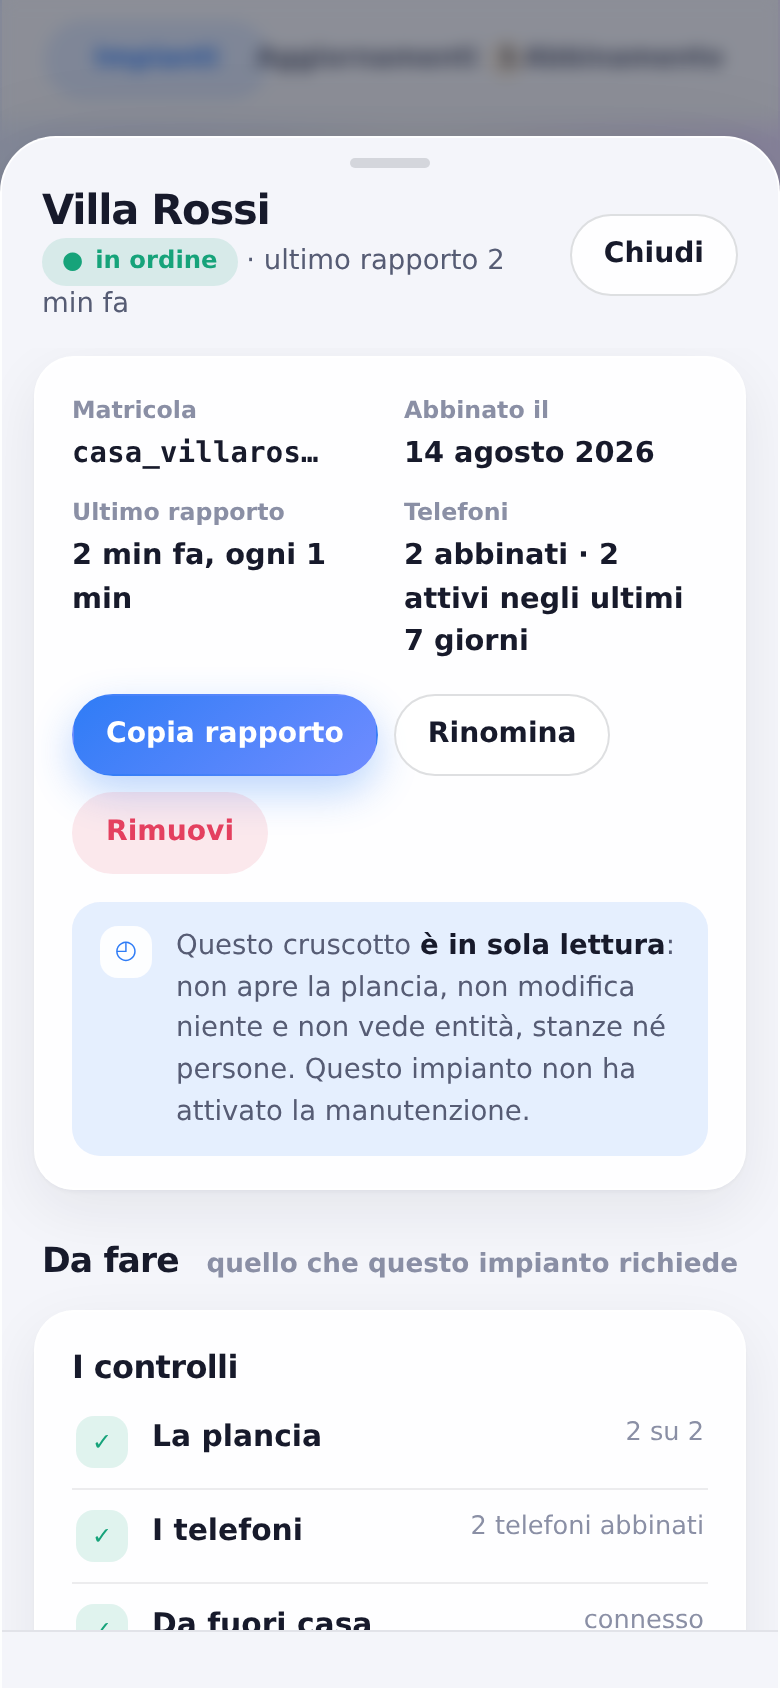
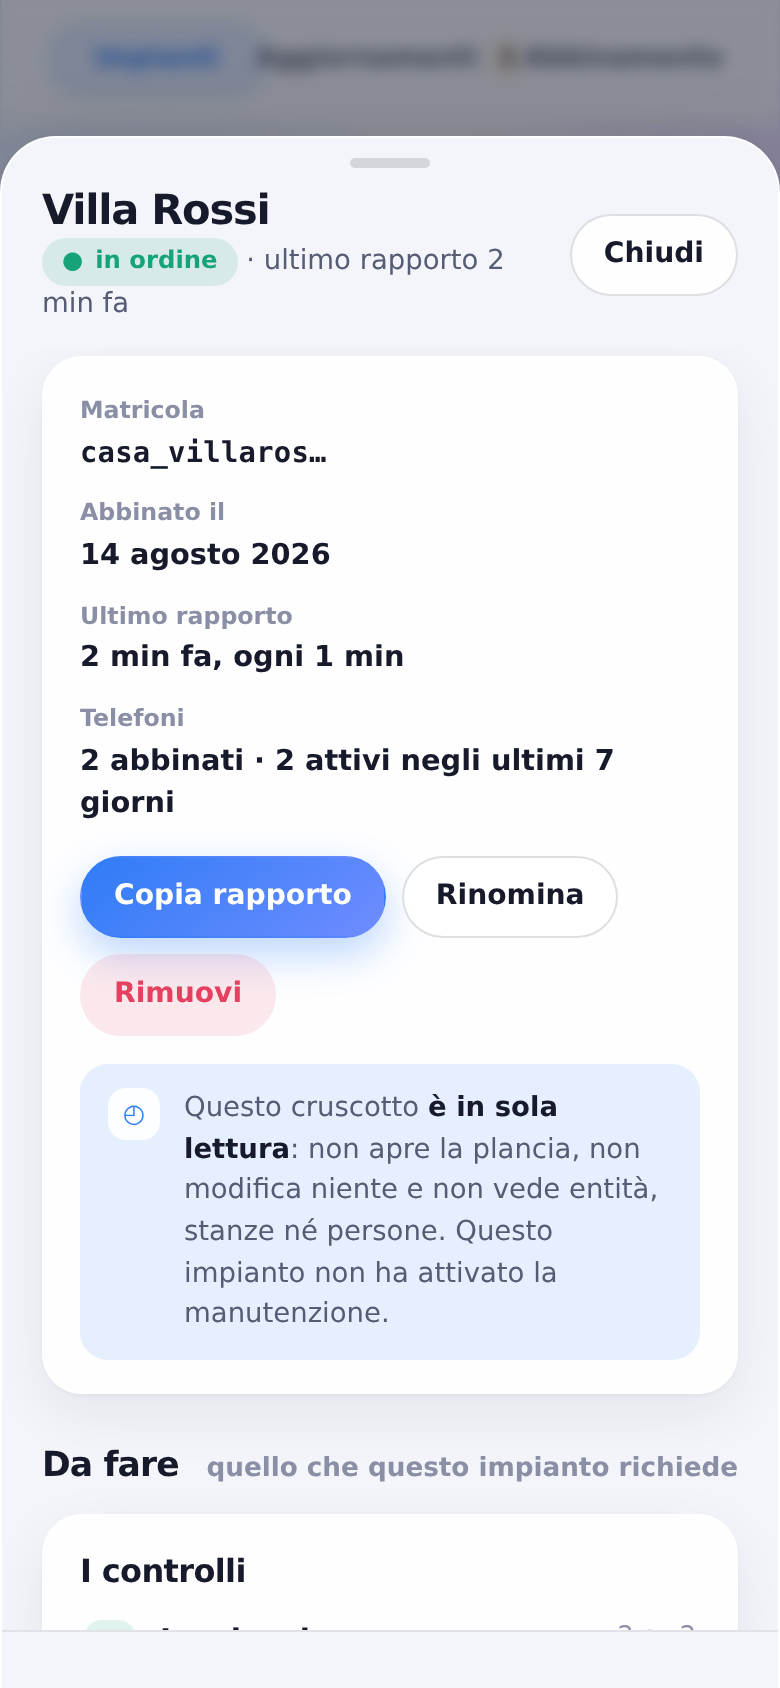
Dentro la scheda c'era un bordo sinistro di troppo
«Continuo a vedere margini non adeguati in quello da installatore.»
Aveva ragione ancora, e stavolta non era nella colonna: era **dentro la
scheda**. Misurati tutti i blocchi e raggruppati per bordo sinistro:

    510  il foglio
    526  ×10  section.riquadro            ← le carte
    530  ×10  div.nomi, h2, div.capitolo  ← il nome della casa e i titoli

Quattro pixel. La testata e i tasti rientravano di venti, il corpo di
sedici, e il titolo di un capitolo si riprendeva i quattro mancanti col
suo margine: il nome della casa e i titoli stavano a venti, e le carte
che quei titoli intitolano a sedici. Adesso venti dappertutto, e lì
dentro il bordo sinistro è uno solo: venti blocchi a 530.

Era un difetto vecchio, non dell'affiancata. Col foglio che saliva dal
basso, largo quanto un telefono, non lo notava nessuno; da quando la
scheda sta accanto a un elenco allineato, si vede. Corretto anche lì,
perché è lo stesso difetto: sul telefono nome, «Da fare» e carte adesso
partono tutti dallo stesso bordo.

La prova non ha avuto bisogno di un browser: è un numero scritto tre
volte nello stesso foglio, e le tre volte devono dire la stessa cosa.
Rimesso il sedici apposta, diventa rossa e dice quali due misure sono.

Claude-Session: https://claude.ai/code/session_01GGsjFKASY1U5KG4TDkPD3s

Changed region(s): [[0.0615, 0.2156, 0.9538, 0.9858], [0.7692, 0.955, 0.8923, 0.9858], [0.4, 0.955, 0.4615, 0.9858]]

diff --git a/quadro/test/la-scheda-si-apre-accanto.test.js b/quadro/test/la-scheda-si-apre-accanto.test.js
@@ -115,6 +115,39 @@ for (const [chi, pagina] of Object.entries(PAGINE)) {
     assert.match(regola(foglio, "#dove > .colonna-elenco > .voce"), /margin-top: 0;/);
   });
 
+  test(`${chi}: dentro la scheda c'e' un bordo sinistro solo`, () => {
+    /* Il difetto per nome: la testata e i tasti rientravano di venti, il
+     * corpo di sedici, e il titolo di un capitolo si riprendeva i quattro
+     * mancanti col suo margine. Risultato: il nome della casa e i titoli a
+     * venti, le carte che quei titoli intitolano a sedici. Quattro pixel.
+     * Col foglio che saliva dal basso, largo quanto un telefono, non li
+     * notava nessuno; da quando la scheda sta accanto a un elenco allineato,
+     * si vedono — ed e' da li' che e' arrivata la segnalazione.
+     *
+     * Non serve un browser per accorgersene: e' un numero scritto tre volte
+     * nello stesso foglio, e le tre volte devono dire la stessa cosa. */
+    const dilato = (selettore) => {
+      const scritto = /\n\s*padding: ([^;]+);/.exec(regola(pagina, selettore))?.[1];
+      assert.ok(scritto, `a «${selettore}» manca il padding`);
+      const pezzi = scritto.trim().split(/\s+/);
+      /* «sopra destra-sinistra sotto» o «sopra destra sotto sinistra». */
+      return pezzi.length === 4 ? [pezzi[1], pezzi[3]] : [pezzi[1], pezzi[1]];
+    };
+    const tutti = [
+      ...dilato("      .foglio-testa"),
+      ...dilato("      .foglio-corpo"),
+      ...dilato("      .foglio-tasti"),
+    ];
+    assert.equal(
+      new Set(tutti).size,
+      1,
+      `la scheda rientra di misure diverse: ${[...new Set(tutti)].join(", ")}`,
+    );
+
+    /* E il titolo di un capitolo non si riprende niente di lato. */
+    assert.match(regola(pagina, "      .capitolo"), /margin: \d+px 0 \d+px;/);
+  });
+
   test(`${chi}: accanto non c'e' piu' il velo`, () => {
     assert.match(regola(laffiancata(pagina), "#dove > .velo"), /display: none;/);
   });

diff --git a/quadro/console/index.html b/quadro/console/index.html
@@ -574,7 +574,9 @@
         justify-content: space-between;
         flex-wrap: wrap;
         gap: 2px 12px;
-        margin: 24px 4px 10px;
+        /* Di lato niente: il titolo di un capitolo sta in riga con le carte
+           che intitola, e i quattro pixel di rientro lo portavano fuori. */
+        margin: 24px 0 10px;
       }
 
       .titolone {
@@ -1343,10 +1345,17 @@
         font-size: 1.3rem;
       }
 
+      /* Venti, come la testata e i tasti.
+       *
+       * Erano sedici, e dentro la scheda i bordi sinistri erano due: il nome
+       * della casa e i titoli dei capitoli a venti, le carte che quei titoli
+       * intitolano a sedici. Quattro pixel. Con il foglio che saliva dal
+       * basso, largo quanto un telefono, non li notava nessuno; da quando la
+       * scheda sta accanto a un elenco allineato, si vedono. */
       .foglio-corpo {
         overflow-y: auto;
         overscroll-behavior: contain;
-        padding: 4px 16px 24px;
+        padding: 4px 20px 24px;
         -webkit-overflow-scrolling: touch;
       }
 

diff --git a/quadro/gestore/index.html b/quadro/gestore/index.html
@@ -549,7 +549,9 @@
         justify-content: space-between;
         flex-wrap: wrap;
         gap: 2px 12px;
-        margin: 24px 4px 10px;
+        /* Di lato niente: il titolo di un capitolo sta in riga con le carte
+           che intitola, e i quattro pixel di rientro lo portavano fuori. */
+        margin: 24px 0 10px;
       }
 
       .titolone {
@@ -1258,10 +1260,17 @@
         font-size: 1.3rem;
       }
 
+      /* Venti, come la testata e i tasti.
+       *
+       * Erano sedici, e dentro la scheda i bordi sinistri erano due: il nome
+       * della casa e i titoli dei capitoli a venti, le carte che quei titoli
+       * intitolano a sedici. Quattro pixel. Con il foglio che saliva dal
+       * basso, largo quanto un telefono, non li notava nessuno; da quando la
+       * scheda sta accanto a un elenco allineato, si vedono. */
       .foglio-corpo {
         overflow-y: auto;
         overscroll-behavior: contain;
-        padding: 4px 16px 24px;
+        padding: 4px 20px 24px;
         -webkit-overflow-scrolling: touch;
       }
 
